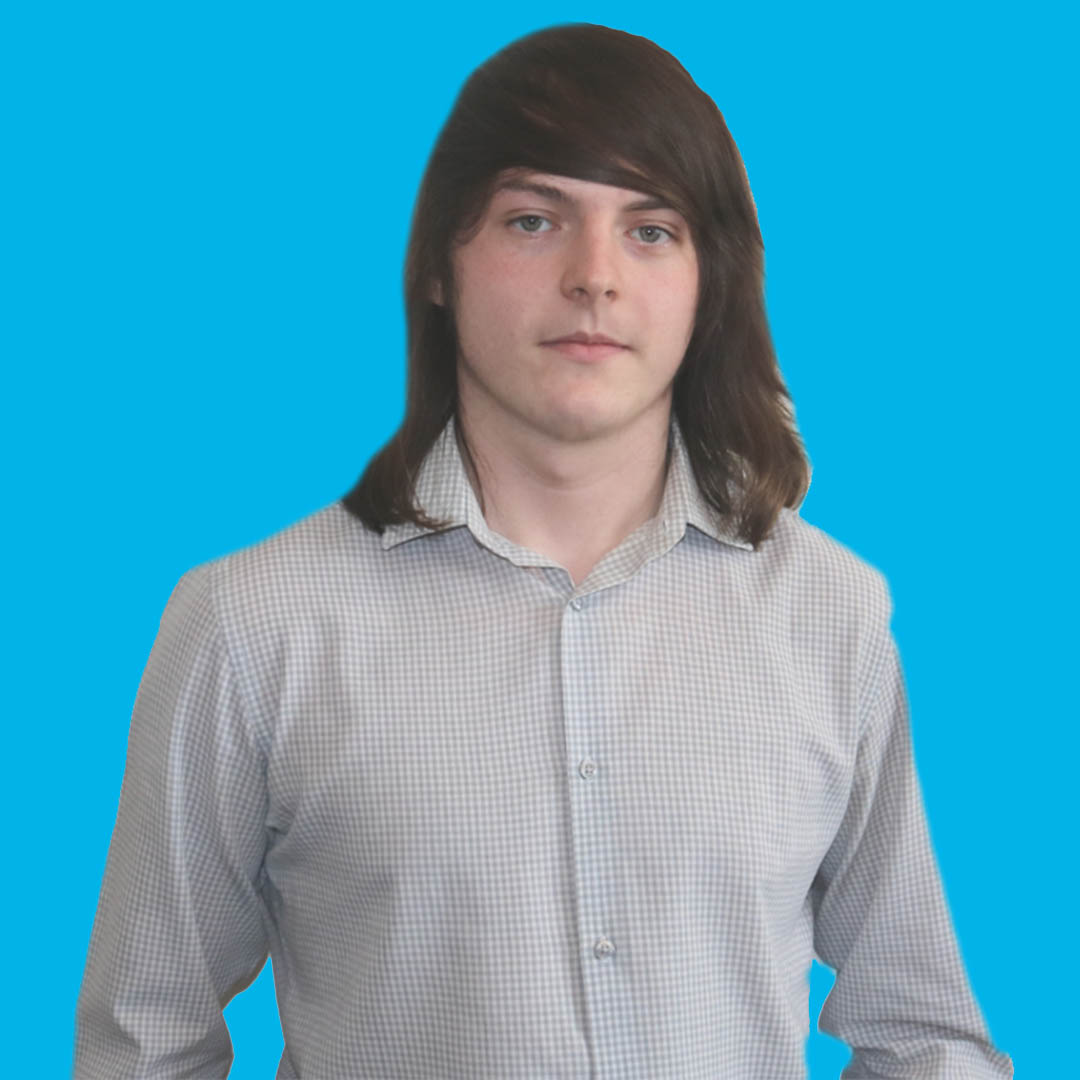
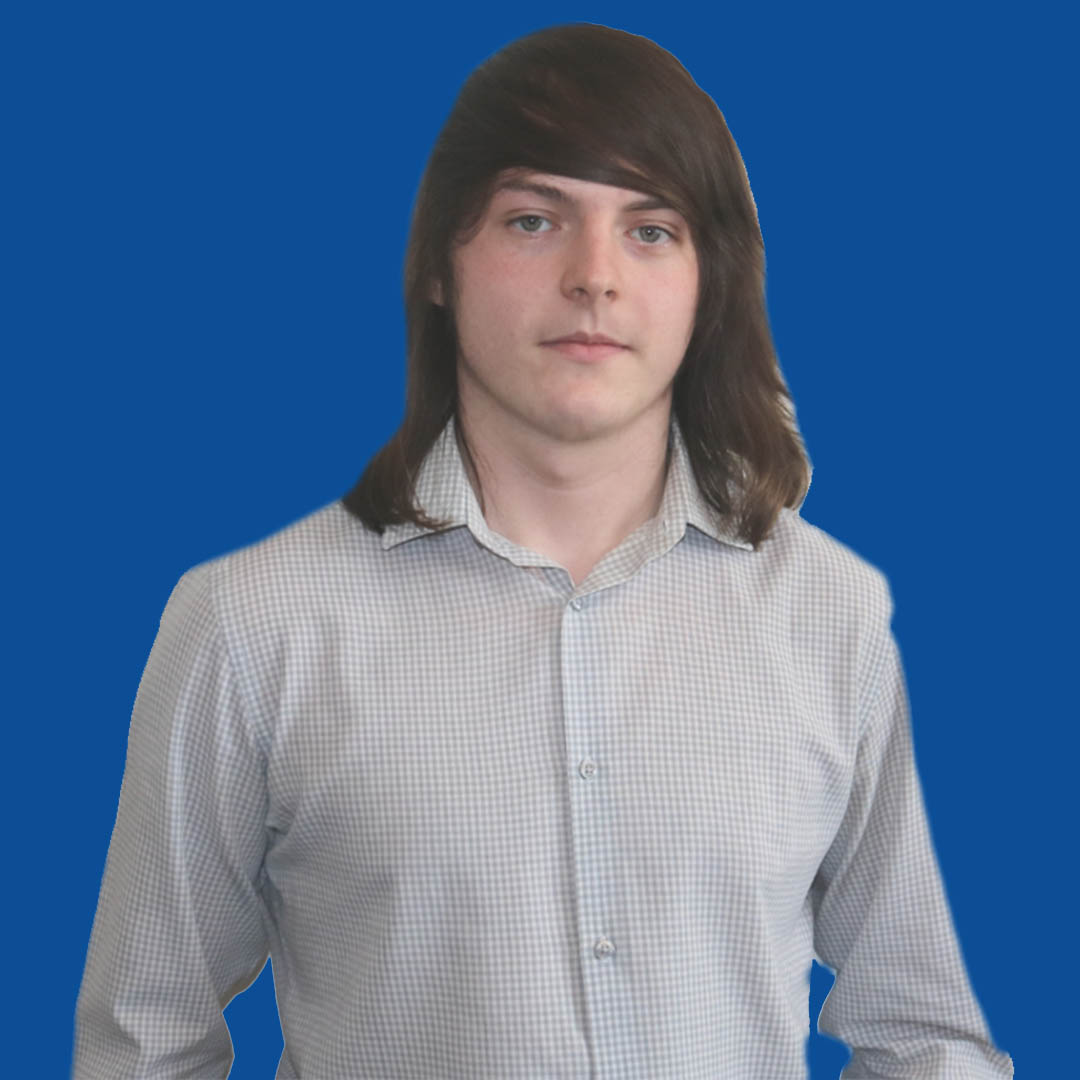
Edited image

diff --git a/index.html b/index.html
@@ -31,7 +31,7 @@
     <a class="navbar-brand">
 
       <span class="d-none d-lg-block">
-        <img class="img-profile mx-auto mb-2" src="https://raw.githubusercontent.com/itsbenwright10/itsbenwright10.github.io/master/images/benwright.png" alt="Profile Image">
+        <img class="img-profile mx-auto mb-2" src="https://github.com/itsbenwright10/itsbenwright10.github.io/blob/master/images/ben.jpg?raw=true" alt="Profile Image">
       </span>
     </a>
     <div class="collapse navbar-collapse">
